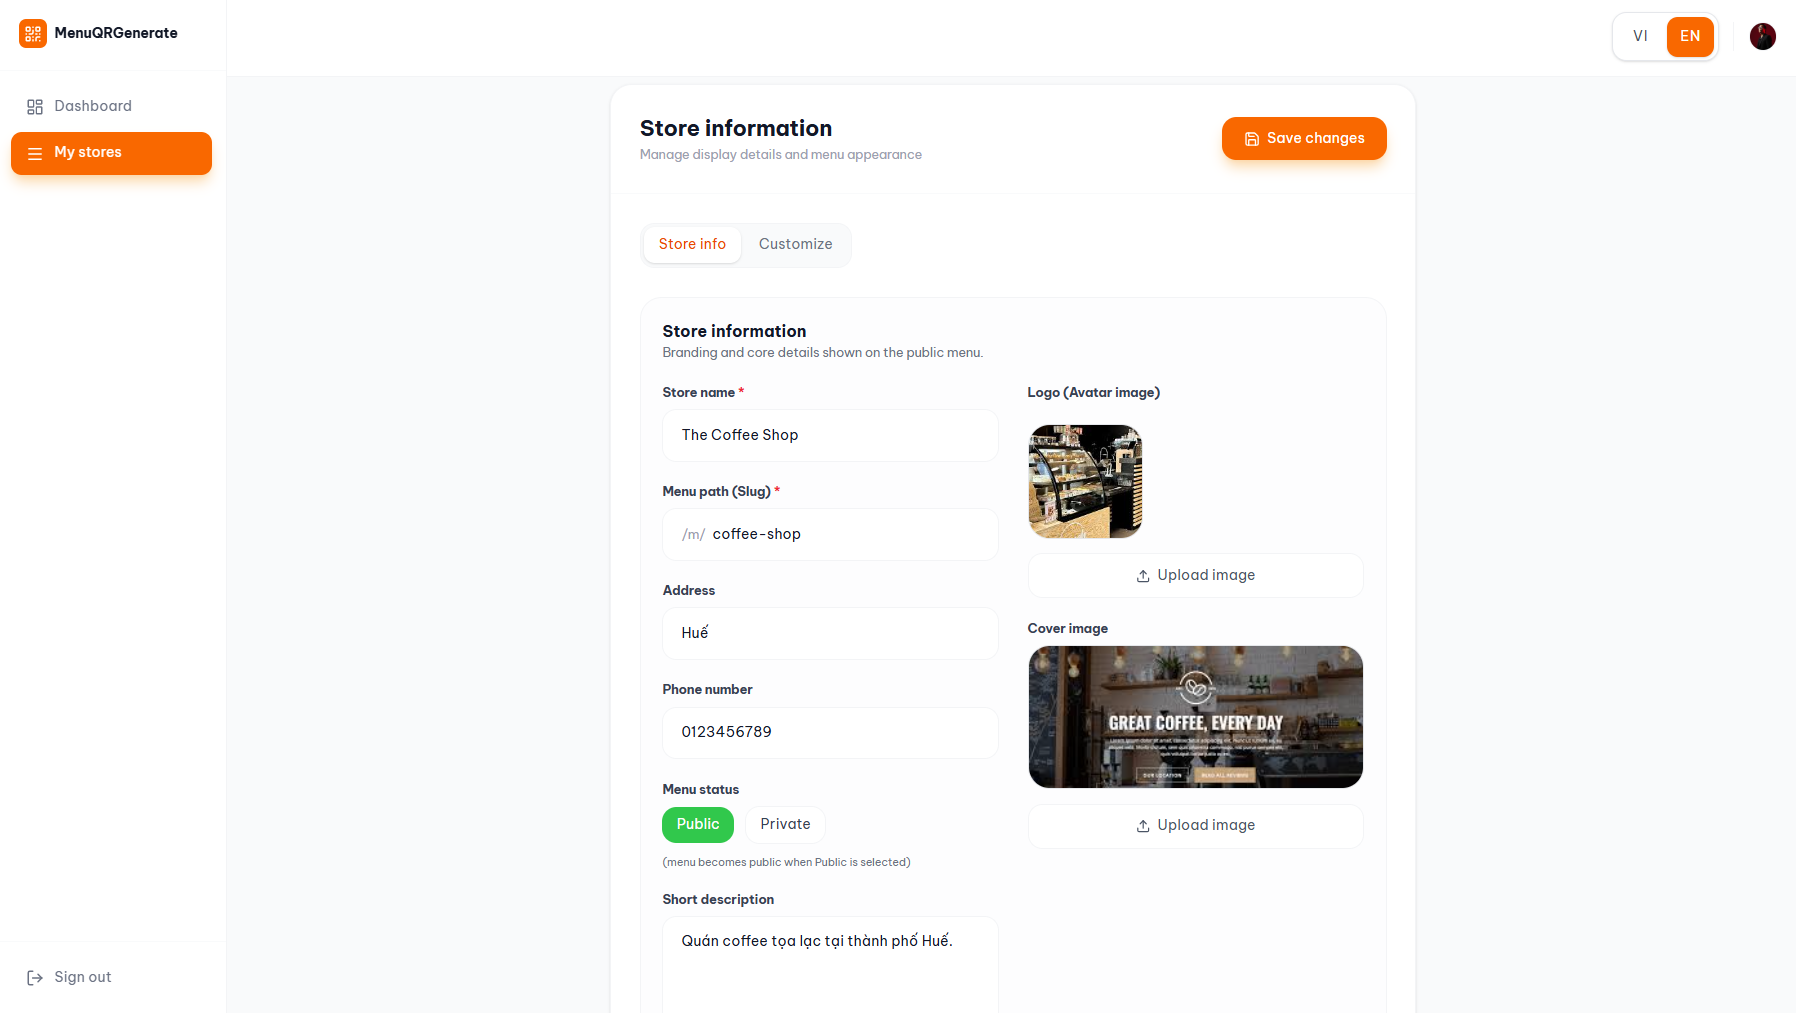
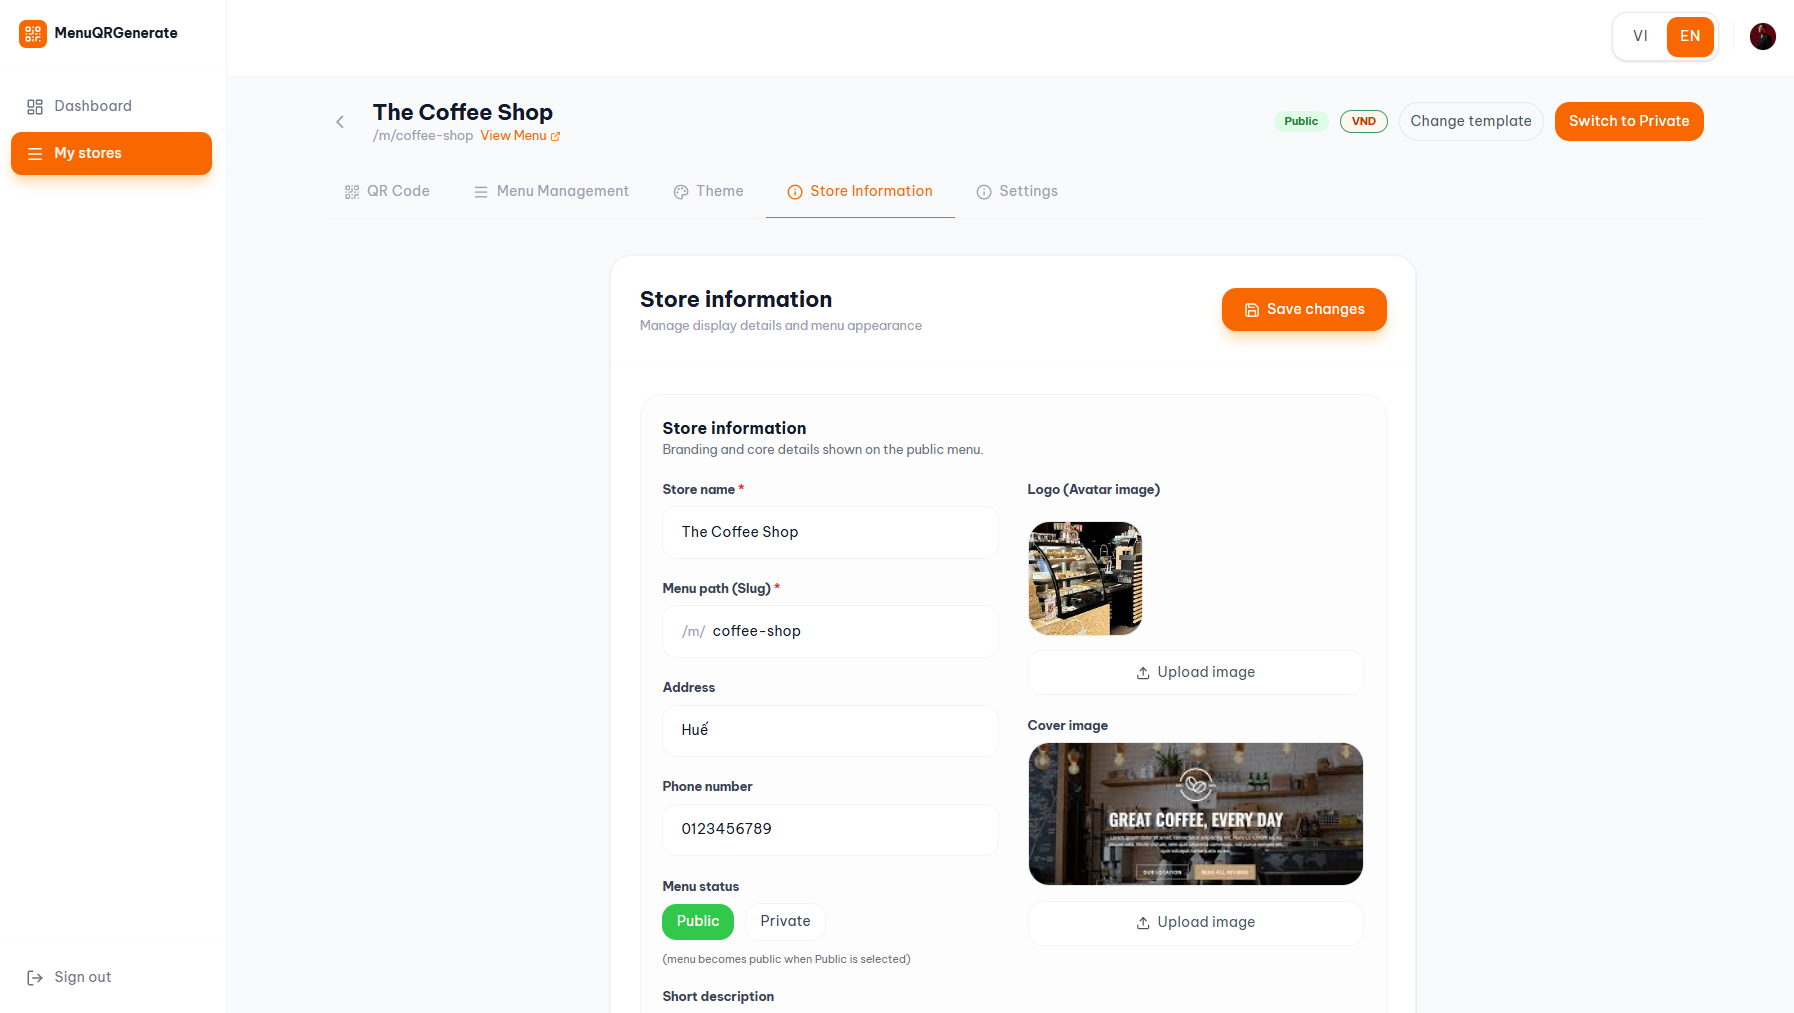
fix: Debug and update image preview

diff --git a/src/components/Login.tsx b/src/components/Login.tsx
@@ -22,6 +22,7 @@ function getLoginErrorMessage(error: unknown, t: TranslationFn): string {
       return t('login.error.unsupportedEnvironment');
     case 'auth/popup-blocked':
       return t('login.error.popupBlocked');
+    case 'auth/user-cancelled':
     case 'auth/popup-closed-by-user':
       return t('login.error.popupClosed');
     case 'auth/network-request-failed':
@@ -140,6 +141,16 @@ export default function Login() {
       goToDashboard();
     } catch (err) {
       console.error('Google login failed:', err);
+
+      // Check for user cancellation (popup closed or explicit cancel)
+      const isCancellation = err instanceof FirebaseError && 
+        (err.code === 'auth/user-cancelled' || err.code === 'auth/popup-closed-by-user');
+
+      if (isCancellation) {
+        console.log('[Google Login] User cancelled login process');
+        setLoading(false);
+        return;
+      }
 
       if (err instanceof FirebaseError && (err.code === 'auth/popup-blocked' || err.code === 'auth/operation-not-supported-in-this-environment' || err.code === 'auth/network-request-failed')) {
         try {
